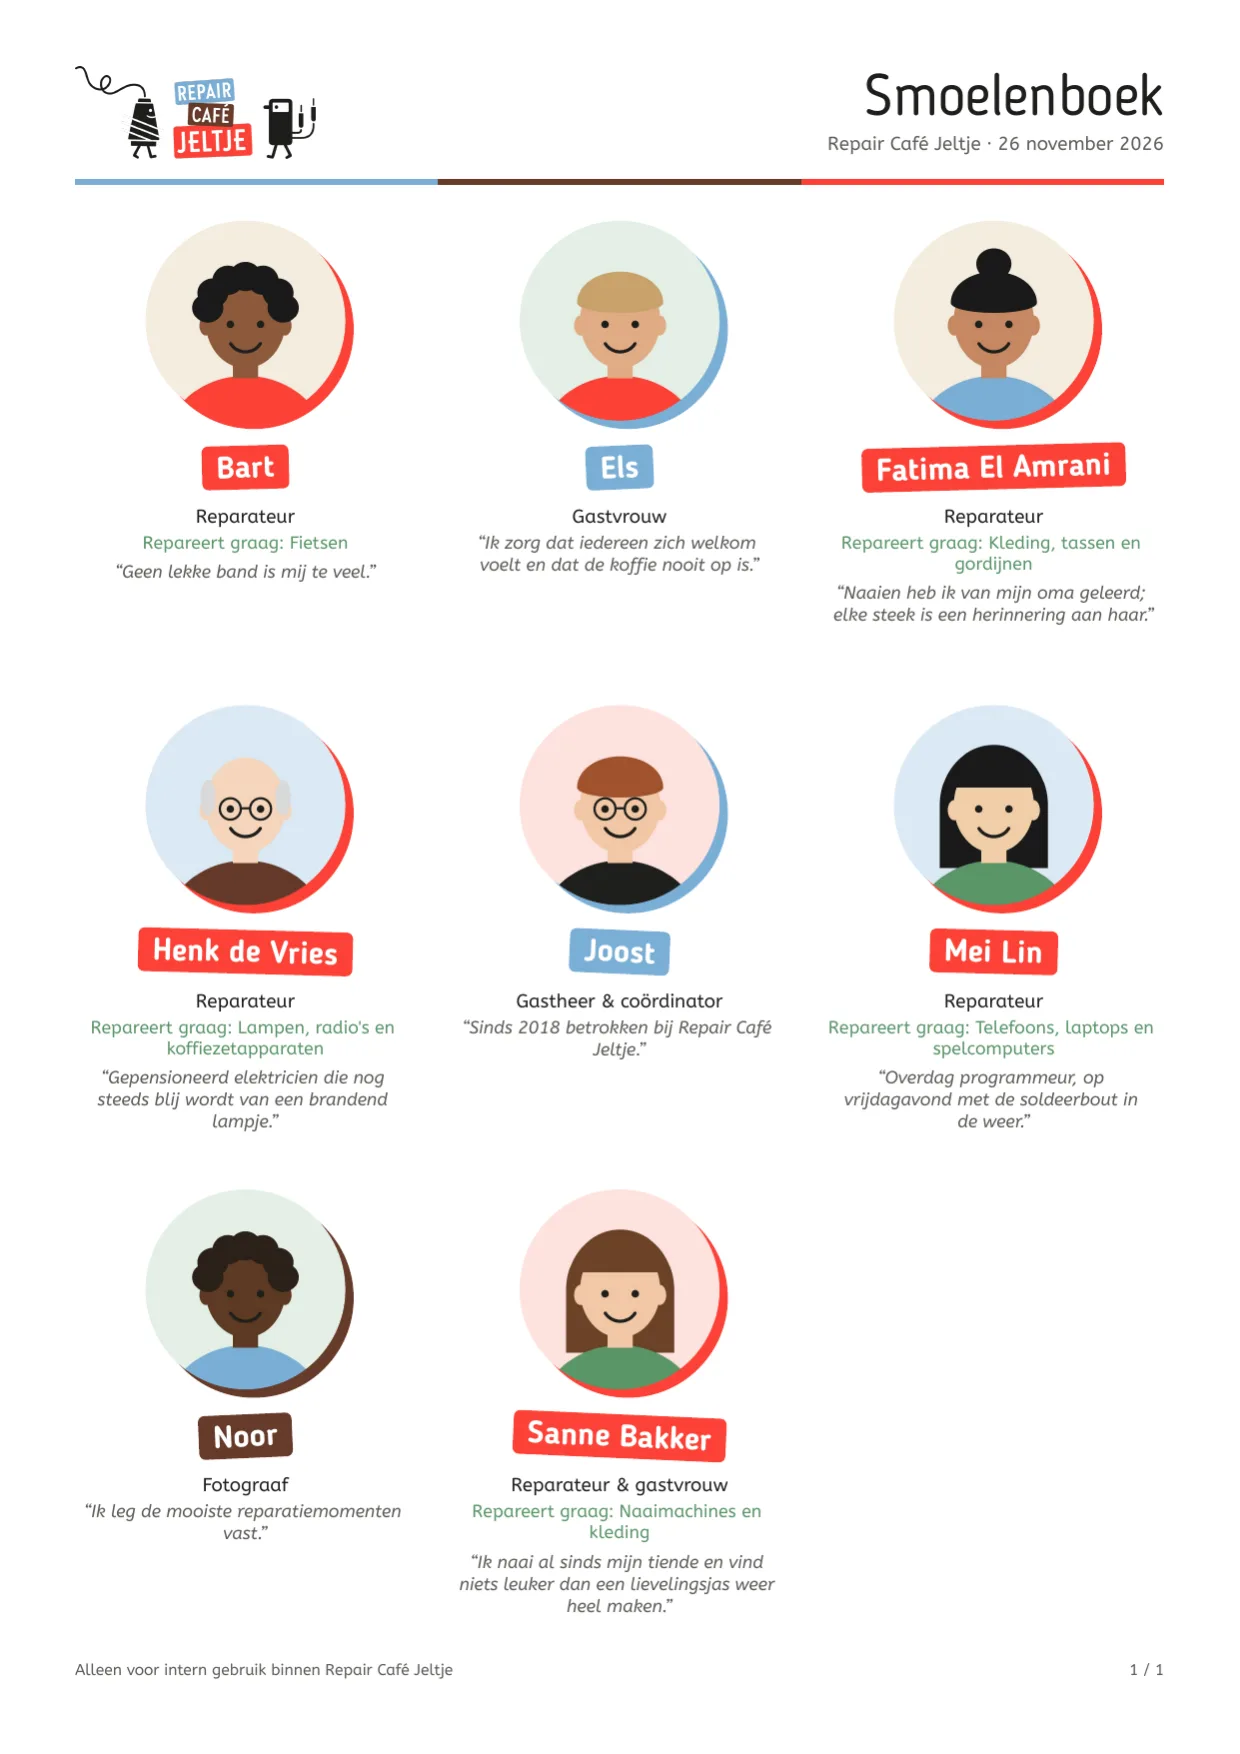
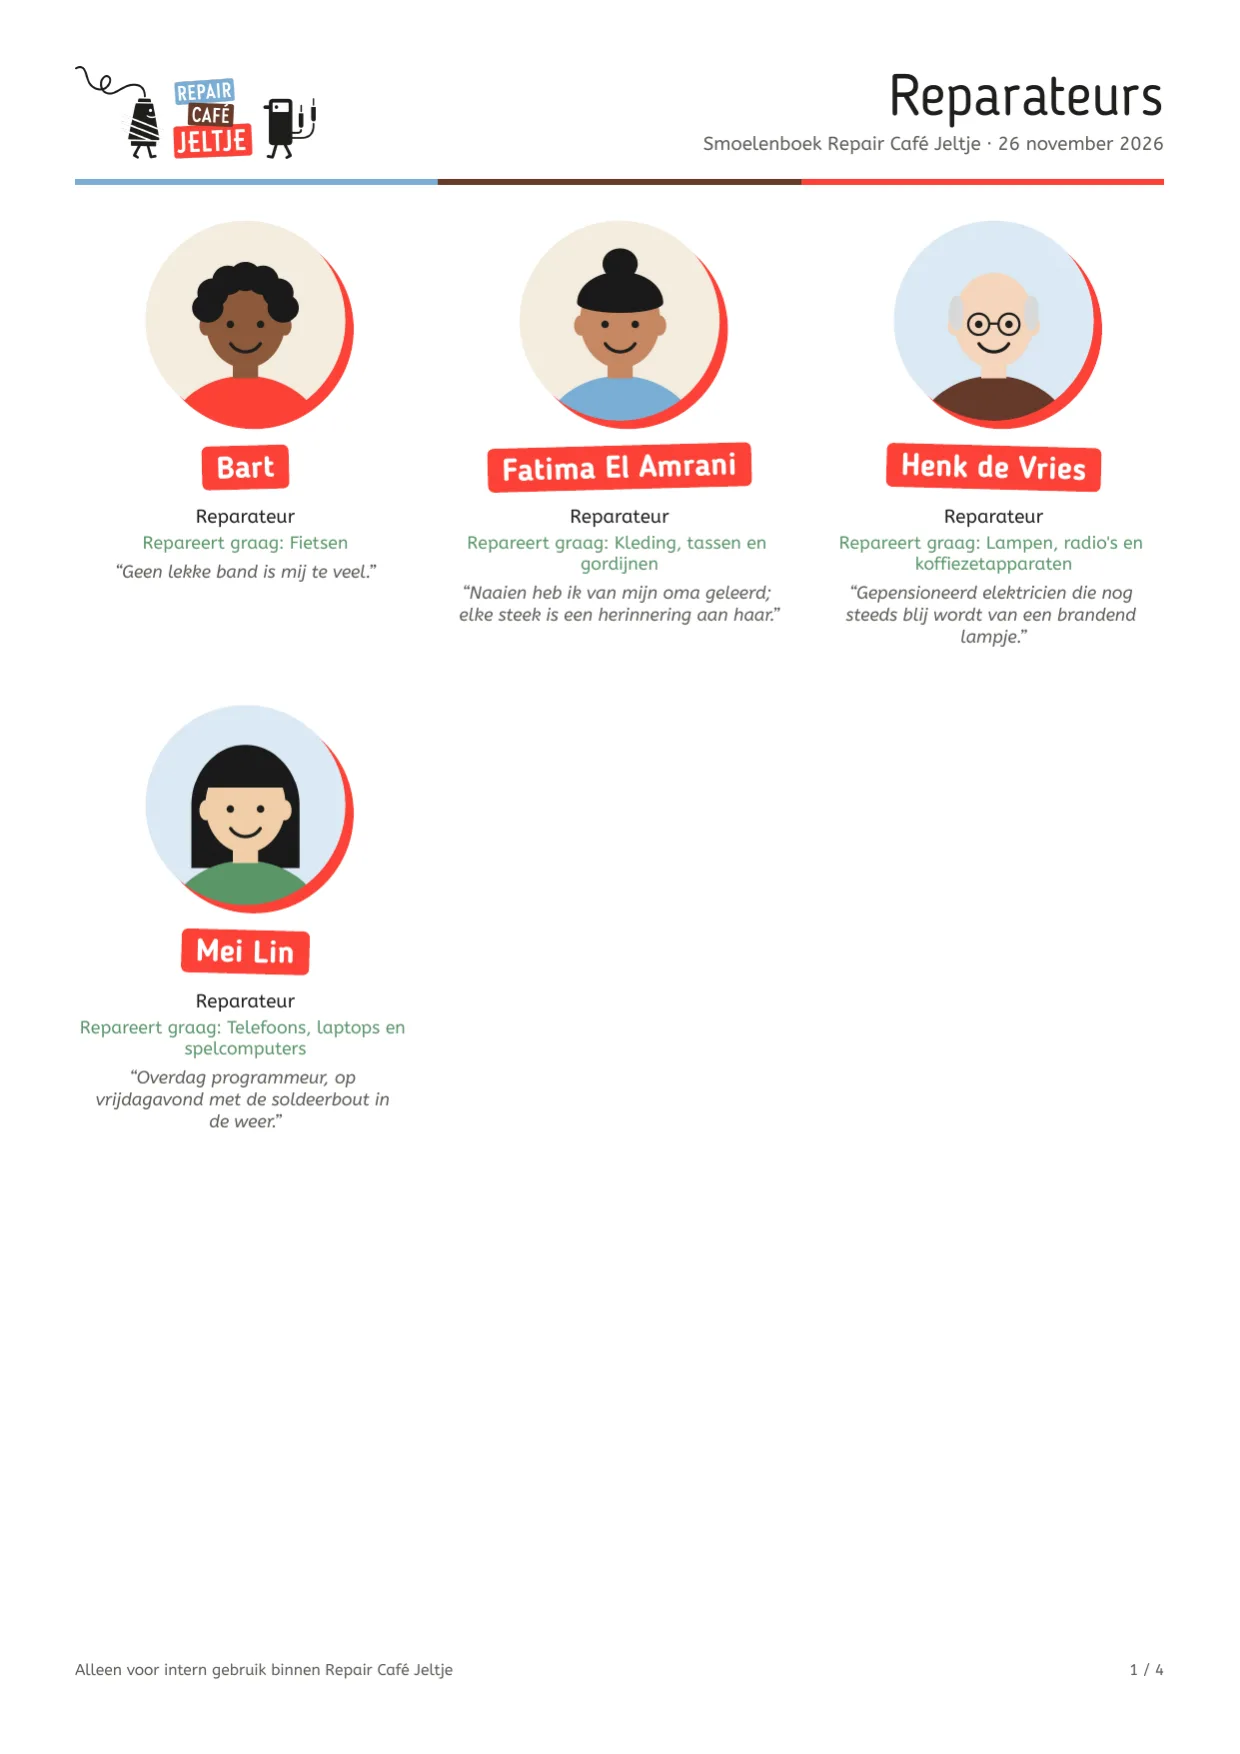
PDF groeperen per rol
Elke groep (reparateurs, gastvrouwen & gastheren, andere rollen, meerdere rollen)
begint op een nieuwe pagina, met de groepsnaam als paginatitel.

diff --git a/server/utils/pdf.ts b/server/utils/pdf.ts
@@ -18,6 +18,30 @@ const PHOTO = 96
 const GREY = '#5f5d59'
 const LIGHT = '#f4f1ec'
 
+/** Volgorde en titels van de groepen in de PDF. Gastvrouw en gastheer zijn dezelfde rol. */
+const GROUPS: { title: string; roles: Role[] }[] = [
+  { title: 'Reparateurs', roles: ['reparateur'] },
+  { title: 'Gastvrouwen & gastheren', roles: ['gastvrouw', 'gastheer'] },
+  { title: 'Andere rollen', roles: ['anders'] },
+]
+const MULTIPLE_ROLES = 'Meerdere rollen'
+
+/** Deelt mensen in per groep; wie in meer dan één groep valt, komt bij "Meerdere rollen". */
+function groupByRole(people: PdfPerson[]) {
+  const groups = [...GROUPS.map((group) => group.title), MULTIPLE_ROLES].map((title) => ({
+    title,
+    people: [] as PdfPerson[],
+  }))
+  for (const person of people) {
+    const matches = GROUPS.filter((group) =>
+      group.roles.some((role) => person.roles.includes(role)),
+    )
+    const index = matches.length === 1 ? GROUPS.indexOf(matches[0]!) : GROUPS.length
+    groups[index]!.people.push(person)
+  }
+  return groups.filter((group) => group.people.length > 0)
+}
+
 /** Emoji e.d. zitten niet in de fonts; die laten we weg in de PDF. */
 function clean(text: string) {
   return text
@@ -73,21 +97,28 @@ export async function renderSmoelenboek(people: PdfPerson[]): Promise<Buffer> {
   doc.on('data', (chunk: Buffer) => chunks.push(chunk))
   const done = new Promise<Buffer>((resolve) => doc.on('end', () => resolve(Buffer.concat(chunks))))
 
+  // Elke groep begint op een nieuwe pagina
   const perPage = COLS * ROWS
-  const pageCount = Math.max(1, Math.ceil(people.length / perPage))
+  const pages = groupByRole(people).flatMap((group) =>
+    Array.from({ length: Math.ceil(group.people.length / perPage) }, (_, i) => ({
+      title: group.title,
+      people: group.people.slice(i * perPage, (i + 1) * perPage),
+    })),
+  )
+  if (pages.length === 0) pages.push({ title: 'Smoelenboek', people: [] })
+  const pageCount = pages.length
   const contentWidth = PAGE.width - MARGIN * 2
   const colWidth = (contentWidth - GAP_X * (COLS - 1)) / COLS
   const gridTop = MARGIN + HEADER_HEIGHT
   const gridHeight = PAGE.height - MARGIN - FOOTER_HEIGHT - gridTop
   const rowHeight = (gridHeight - GAP_Y * (ROWS - 1)) / ROWS
 
-  for (let page = 0; page < pageCount; page++) {
+  pages.forEach((page, pageIndex) => {
     doc.addPage()
-    drawHeader(doc, logo, date)
-    drawFooter(doc, page + 1, pageCount)
+    drawHeader(doc, logo, date, page.title)
+    drawFooter(doc, pageIndex + 1, pageCount)
 
-    const pagePeople = people.slice(page * perPage, (page + 1) * perPage)
-    pagePeople.forEach((person, index) => {
+    page.people.forEach((person, index) => {
       const col = index % COLS
       const row = Math.floor(index / COLS)
       drawCard(
@@ -110,13 +141,13 @@ export async function renderSmoelenboek(people: PdfPerson[]): Promise<Buffer> {
           align: 'center',
         })
     }
-  }
+  })
 
   doc.end()
   return done
 }
 
-function drawHeader(doc: PDFKit.PDFDocument, logo: Buffer, date: string) {
+function drawHeader(doc: PDFKit.PDFDocument, logo: Buffer, date: string, title: string) {
   const logoHeight = 44
   doc.image(logo, MARGIN, MARGIN - 4, { height: logoHeight })
 
@@ -125,12 +156,13 @@ function drawHeader(doc: PDFKit.PDFDocument, logo: Buffer, date: string) {
     .font('display')
     .fontSize(28)
     .fillColor(COLORS.ink)
-    .text('Smoelenboek', MARGIN, MARGIN - 2, { width: right - MARGIN, align: 'right' })
+    .text(title, MARGIN, MARGIN - 2, { width: right - MARGIN, align: 'right' })
+  const subtitle = title === 'Smoelenboek' ? 'Repair Café Jeltje' : 'Smoelenboek Repair Café Jeltje'
   doc
     .font('body')
     .fontSize(9)
     .fillColor(GREY)
-    .text(`Repair Café Jeltje · ${date}`, MARGIN, MARGIN + 28, {
+    .text(`${subtitle} · ${date}`, MARGIN, MARGIN + 28, {
       width: right - MARGIN,
       align: 'right',
     })
